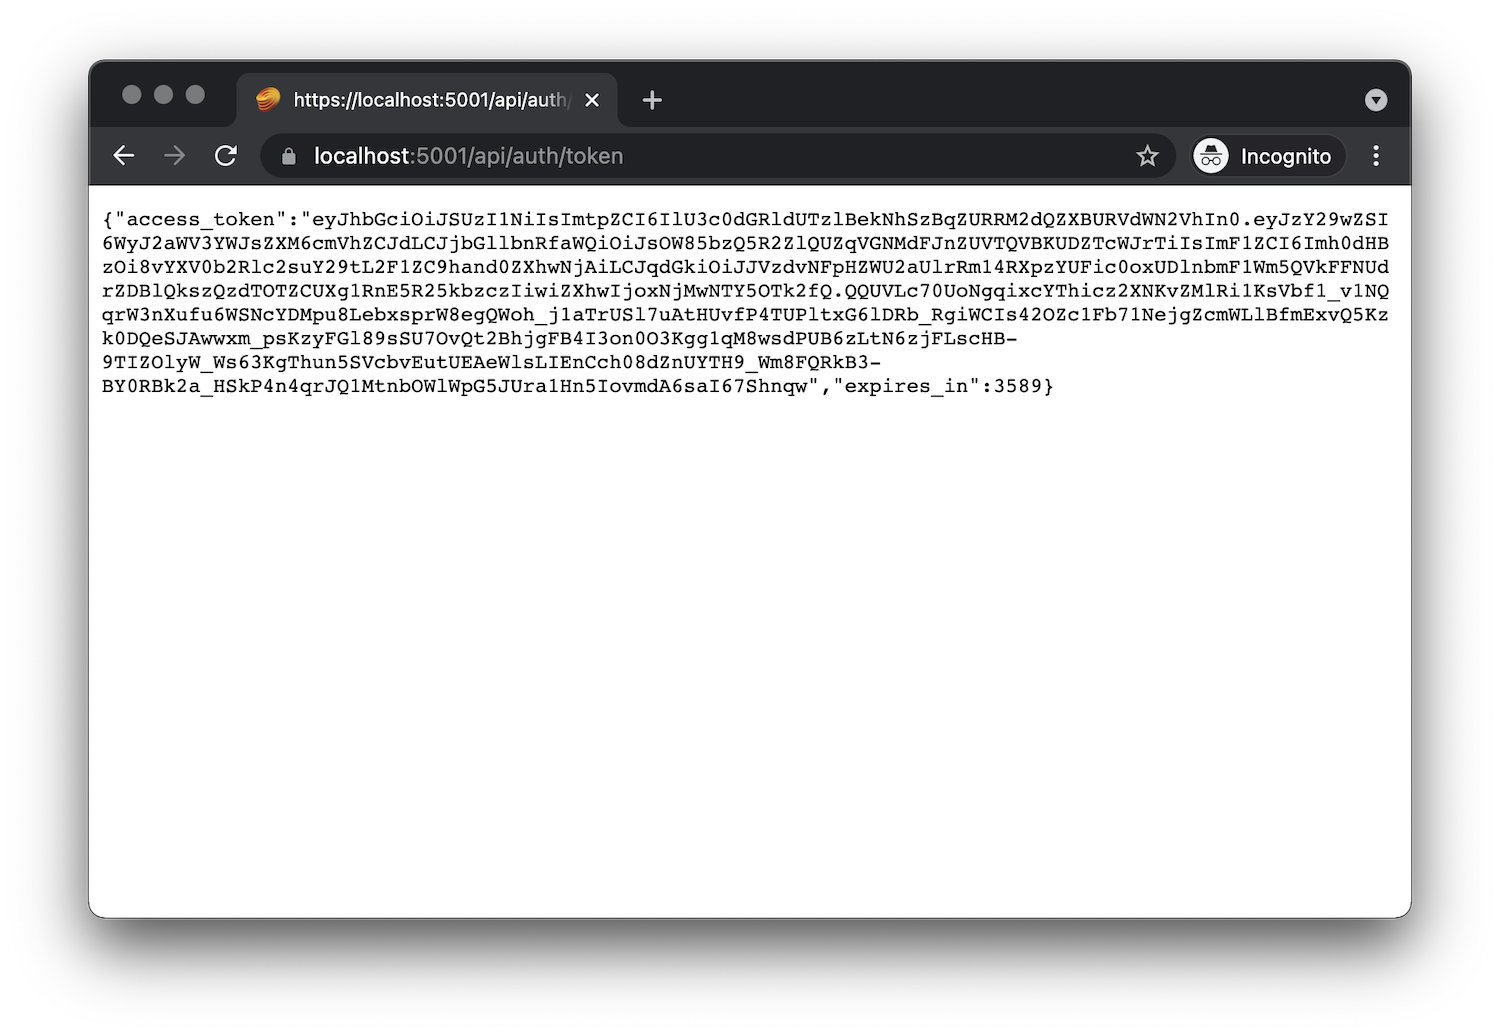
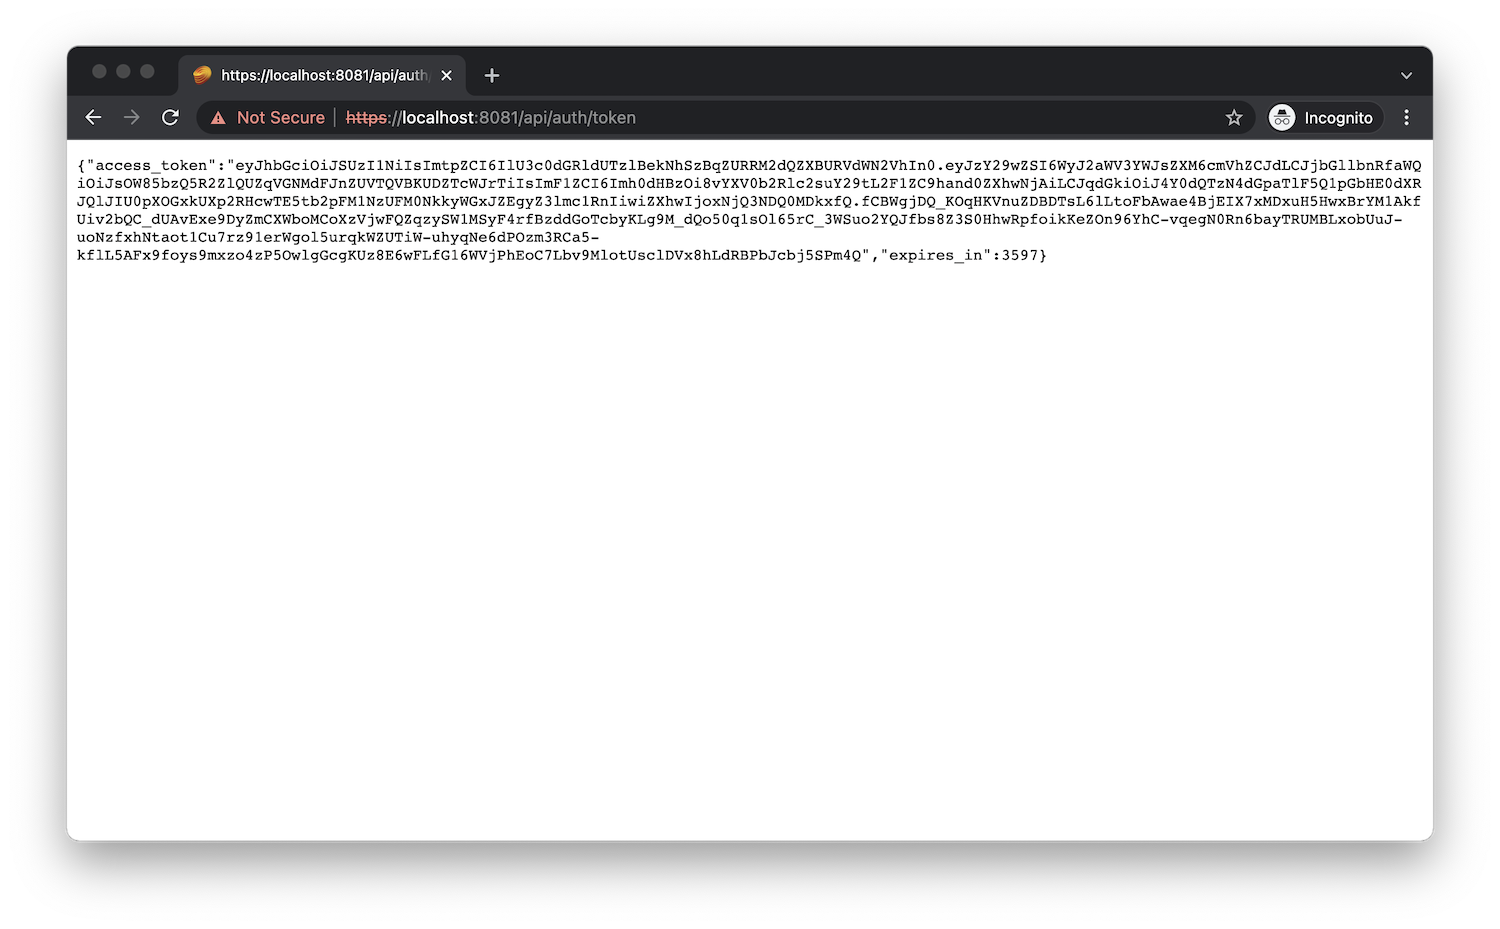
Cleaned up SimpleViewer/.NET/VSCode tutorial.

Changed region(s): [[0.0307, 0.0312, 0.9813, 0.9053], [0.6747, 0.3434, 0.7053, 0.3746]]

diff --git a/docs/tutorials/simple-viewer/dotnet-vscode/01-server.md b/docs/tutorials/simple-viewer/dotnet-vscode/01-server.md
@@ -47,6 +47,17 @@ Finally, let's create a couple more subfolders in your project folder that we're
 - `Models` - here we're going to keep all the server-side logic that can be shared by different endpoints
 - `wwwroot` - this is where we're going to put all the client side assets (HTML, CSS, JavaScript, images, etc.)
 
+## Application config
+
+When the `dotnet` utility bootstrapped your application, it generated random port numbers
+for its HTTP and HTTPS addresses. Let's change those to specific port numbers (8080 for HTTP,
+and 8081 for HTTPS) that we will use throughout this tutorial.
+
+Open the `launchSettings.json` file under the `Properties` folder, and set the `applicationUrl`
+property to `https://localhost:8081;http://localhost:8080`.
+
+![Launch Config](launch-config.png)
+
 ## Create a basic server
 
 Next we'll setup our basic server. Start by creating a `Startup.cs` file in the root folder
@@ -143,6 +154,6 @@ export FORGE_CLIENT_SECRET=your-own-forge-client-secret
 dotnet run
 ```
 
-When you navigate to [https://localhost:5001](https://localhost:5001) in your browser, you should
+When you navigate to [https://localhost:8081](https://localhost:8081) in your browser, you should
 get a 404 response because we haven't implemented any server logic yet. That's going to be the topic
 of the next step.

diff --git a/docs/tutorials/simple-viewer/dotnet-vscode/03-models.md b/docs/tutorials/simple-viewer/dotnet-vscode/03-models.md
@@ -476,7 +476,7 @@ See the [documentation](https://forge.autodesk.com/en/docs/data/v2/reference/htt
 for more details.
 :::
 
-When you navigate to [https://localhost:5001/api/models](https://localhost:5001/api/models)
+When you navigate to [https://localhost:8081/api/models](https://localhost:8081/api/models)
 in the browser, the server should respond with a JSON list with names and URNs of all objects
 available in your configured bucket. If you are getting started, you may get a JSON response
 with an empty array (`[]`) which is expected. In the screenshot below we can already see a couple

diff --git a/docs/tutorials/simple-viewer/dotnet-vscode/02-auth.md b/docs/tutorials/simple-viewer/dotnet-vscode/02-auth.md
@@ -177,7 +177,7 @@ export FORGE_CLIENT_SECRET=your-own-forge-client-secret
 dotnet run
 ```
 
-If the server starts successfully and you navigate to [https://localhost:5001/api/auth/token](https://localhost:5001/api/auth/token)
+If the server starts successfully and you navigate to [https://localhost:8081/api/auth/token](https://localhost:8081/api/auth/token)
 in the browser, the server should respond with a JSON object containing the access token data.
 
 ![Server Response](./auth-response.png)
